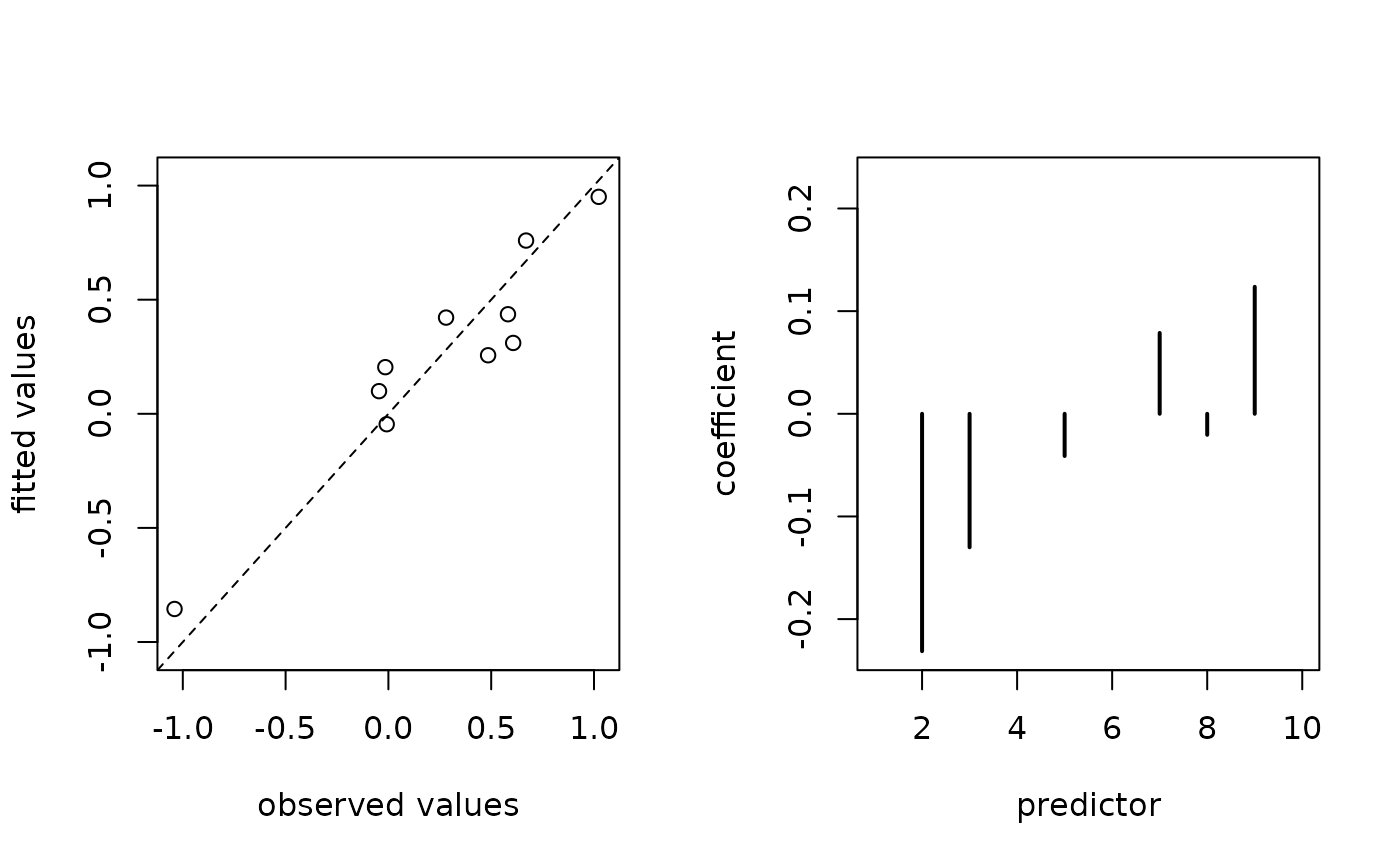
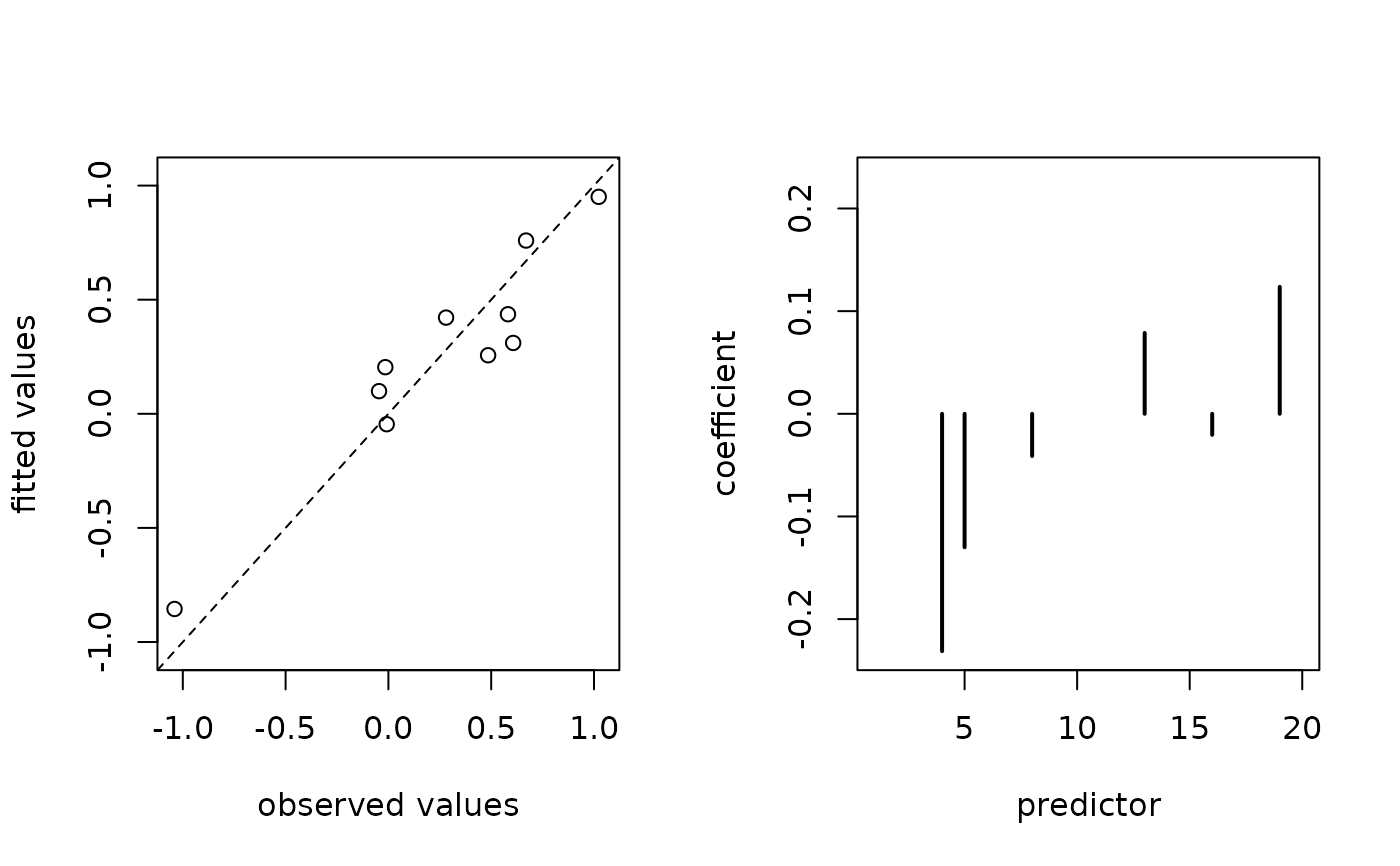
Deploying to gh-pages from @ rauschenberger/corila@f60b0ffc4063b2499f6fa0591c18770eb3169e38 🚀

diff --git a/reference/lupi_data.html b/reference/lupi_data.html
@@ -1,0 +1,106 @@
+<!DOCTYPE html>
+<!-- Generated by pkgdown: do not edit by hand --><html lang="en-GB"><head><meta http-equiv="Content-Type" content="text/html; charset=UTF-8"><meta charset="utf-8"><meta http-equiv="X-UA-Compatible" content="IE=edge"><meta name="viewport" content="width=device-width, initial-scale=1, shrink-to-fit=no"><title>Example data — lupi_data • corila</title><!-- mathjax math --><script src="https://cdn.jsdelivr.net/npm/mathjax@3.2.2/es5/tex-mml-chtml.js" integrity="sha256-MASABpB4tYktI2Oitl4t+78w/lyA+D7b/s9GEP0JOGI=" crossorigin="anonymous"></script><script>
+  window.MathJax = {
+    chtml: {
+      fontURL: "https://cdn.jsdelivr.net/npm/mathjax@3.2.2/es5/output/chtml/fonts/woff-v2"
+    }
+  };
+</script><script src="../deps/jquery-3.6.0/jquery-3.6.0.min.js"></script><meta name="viewport" content="width=device-width, initial-scale=1, shrink-to-fit=no"><link href="../deps/bootstrap-5.3.8/bootstrap.min.css" rel="stylesheet"><script src="../deps/bootstrap-5.3.8/bootstrap.bundle.min.js"></script><link href="../deps/font-awesome-6.5.2/css/all.min.css" rel="stylesheet"><link href="../deps/font-awesome-6.5.2/css/v4-shims.min.css" rel="stylesheet"><script src="../deps/headroom-0.11.0/headroom.min.js"></script><script src="../deps/headroom-0.11.0/jQuery.headroom.min.js"></script><script src="../deps/bootstrap-toc-1.0.1/bootstrap-toc.min.js"></script><script src="../deps/clipboard.js-2.0.11/clipboard.min.js"></script><script src="../deps/search-1.0.0/autocomplete.jquery.min.js"></script><script src="../deps/search-1.0.0/fuse.min.js"></script><script src="../deps/search-1.0.0/mark.min.js"></script><!-- pkgdown --><script src="../pkgdown.js"></script><meta property="og:title" content="Example data — lupi_data"><meta name="description" content="This is example data for modelling a response based on
+grouped and correlated primary and auxiliary predictors."><meta property="og:description" content="This is example data for modelling a response based on
+grouped and correlated primary and auxiliary predictors."></head><body>
+    <a href="#main" class="visually-hidden-focusable">Skip to contents</a>
+
+
+    <nav class="navbar navbar-expand-lg fixed-top bg-primary" data-bs-theme="dark" aria-label="Site navigation"><div class="container">
+
+    <a class="navbar-brand me-2" href="../index.html">corila</a>
+
+    <small class="nav-text text-muted me-auto" data-bs-toggle="tooltip" data-bs-placement="bottom" title="">0.1.0</small>
+
+
+    <button class="navbar-toggler" type="button" data-bs-toggle="collapse" data-bs-target="#navbar" aria-controls="navbar" aria-expanded="false" aria-label="Toggle navigation">
+      <span class="navbar-toggler-icon"></span>
+    </button>
+
+    <div id="navbar" class="collapse navbar-collapse ms-3">
+      <ul class="navbar-nav me-auto"><li class="active nav-item"><a class="nav-link" href="../reference/index.html">functions</a></li>
+<li class="nav-item"><a class="nav-link" href="../articles/vignette.html">vignette</a></li>
+<li class="nav-item"><a class="nav-link" href="../news/index.html">news</a></li>
+      </ul><ul class="navbar-nav"><li class="nav-item"><form class="form-inline" role="search">
+ <input class="form-control" type="search" name="search-input" id="search-input" autocomplete="off" aria-label="Search site" placeholder="Search for" data-search-index="../search.json"></form></li>
+<li class="nav-item"><a class="external-link nav-link" href="https://github.com/rauschenberger/corila/" aria-label="GitHub"><span class="fa fab fa-github fa-lg"></span></a></li>
+      </ul></div>
+
+
+  </div>
+</nav><div class="container template-reference-topic">
+<div class="row">
+  <main id="main" class="col-md-9"><div class="page-header">
+
+      <h1>Example data</h1>
+      <small class="dont-index">Source: <a href="https://github.com/rauschenberger/corila/blob/main/R/data.R" class="external-link"><code>R/data.R</code></a></small>
+      <div class="d-none name"><code>lupi_data.Rd</code></div>
+    </div>
+
+    <div class="ref-description section level2">
+    <p>This is example data for modelling a response based on
+grouped and correlated primary and auxiliary predictors.</p>
+    </div>
+
+    <div class="section level2">
+    <h2 id="ref-usage">Usage<a class="anchor" aria-label="anchor" href="#ref-usage"></a></h2>
+    <div class="sourceCode"><pre class="sourceCode r"><code><span><span class="va">data</span></span></code></pre></div>
+    </div>
+
+    <div class="section level2">
+    <h2 id="format">Format<a class="anchor" aria-label="anchor" href="#format"></a></h2>
+    <p>The object <code>data</code> contains a list with multiple slots:</p><ul><li><p><code>x_train</code>:
+predictor matrix of the training observations
+(\(n_0\) rows, \(p\) columns)</p></li>
+<li><p><code>y_train</code>:
+response vector of the training observations
+(length \(n_0\))</p></li>
+<li><p><code>group</code>:
+integer vector indicating the group of the predictors
+(length \(p\))</p></li>
+<li><p><code>primary</code>:
+logical vector indicating
+primary (<code>TRUE</code>) and auxiliary (<code>FALSE</code>) predictors
+(length \(p\))</p></li>
+<li><p><code>beta</code>:
+numeric vector of the effects of the predictors on the response
+(length \(p\))</p></li>
+<li><p><code>x_test</code>:
+\(n_1 \times p\) predictor matrix for the test observations</p></li>
+<li><p><code>y_test</code>:
+response vector for the test observations of length \(n_1\)</p></li>
+</ul></div>
+    <div class="section level2">
+    <h2 id="details">Details<a class="anchor" aria-label="anchor" href="#details"></a></h2>
+    <p>Use the objects <code>x_train</code>, <code>y_train</code>, <code>group</code>, and <code>primary</code>
+for model training.
+Estimated coefficients can be compared with <code>beta</code>.
+Use the object <code>x_test</code> for model testing.
+Predicted values can be compared with <code>y_test</code>.</p>
+    </div>
+
+  </main><aside class="col-md-3"><nav id="toc" aria-label="Table of contents"><h2>On this page</h2>
+    </nav></aside></div>
+
+
+    <footer><div class="pkgdown-footer-left">
+  <p>Developed by Armin Rauschenberger.</p>
+</div>
+
+<div class="pkgdown-footer-right">
+  <p>Site built with <a href="https://pkgdown.r-lib.org/" class="external-link">pkgdown</a> 2.2.0.</p>
+</div>
+
+    </footer></div>
+
+
+
+
+
+  </body></html>
+

diff --git a/reference/index.html b/reference/index.html
@@ -157,6 +157,22 @@
         </dt>
         <dd>Make predictions</dd>
       </dl></div><div class="section level2">
+      <h2 id="example-dataset">Example dataset<a class="anchor" aria-label="anchor" href="#example-dataset"></a></h2>
+
+
+
+      <dl></dl></div><div class="section level2">
+
+
+
+
+      <dl><dt>
+
+          <code><a href="lupi_data.html">data</a></code>
+
+        </dt>
+        <dd>Example data</dd>
+      </dl></div><div class="section level2">
       <h2 id="internal-functions">Internal functions<a class="anchor" aria-label="anchor" href="#internal-functions"></a></h2>
 
 

diff --git a/reference/data.html b/reference/data.html
@@ -1,0 +1,8 @@
+<html>
+  <head>
+    <meta http-equiv="refresh" content="0;URL=https://rauschenberger.github.io/corila/reference/lupi_data.html" />
+    <meta name="robots" content="noindex">
+    <link rel="canonical" href="https://rauschenberger.github.io/corila/reference/lupi_data.html">
+  </head>
+</html>
+

diff --git a/reference/methods.html b/reference/methods.html
@@ -113,8 +113,10 @@ summarise the fitted model</p></li>
 <span class="r-wrn co"><span class="r-pr">#&gt;</span> <span class="warning">Warning: </span>Option grouped=FALSE enforced in cv.glmnet, since &lt; 3 observations per fold</span>
 <span class="r-in"><span></span></span>
 <span class="r-in"><span><span class="fu"><a href="https://rdrr.io/r/stats/coef.html" class="external-link">coef</a></span><span class="op">(</span><span class="va">object</span><span class="op">)</span></span></span>
-<span class="r-out co"><span class="r-pr">#&gt;</span>  [1]  0.10978670  0.00000000 -0.23122594 -0.13002684  0.00000000 -0.04111522</span>
-<span class="r-out co"><span class="r-pr">#&gt;</span>  [7]  0.00000000  0.07875981 -0.02046811  0.12369290  0.00000000</span>
+<span class="r-out co"><span class="r-pr">#&gt;</span>  [1]  0.10978670  0.00000000  0.00000000  0.00000000 -0.23122594 -0.13002684</span>
+<span class="r-out co"><span class="r-pr">#&gt;</span>  [7]  0.00000000  0.00000000 -0.04111522  0.00000000  0.00000000  0.00000000</span>
+<span class="r-out co"><span class="r-pr">#&gt;</span> [13]  0.00000000  0.07875981  0.00000000  0.00000000 -0.02046811  0.00000000</span>
+<span class="r-out co"><span class="r-pr">#&gt;</span> [19]  0.00000000  0.12369290  0.00000000</span>
 <span class="r-in"><span><span class="fu"><a href="https://rdrr.io/r/stats/predict.html" class="external-link">predict</a></span><span class="op">(</span><span class="va">object</span>, newx <span class="op">=</span> <span class="va">x</span><span class="op">)</span></span></span>
 <span class="r-out co"><span class="r-pr">#&gt;</span>  [1]  0.09926603  0.42161457  0.95068360  0.43627218  0.31049695 -0.04566780</span>
 <span class="r-out co"><span class="r-pr">#&gt;</span>  [7] -0.85527265  0.75918734  0.20435338  0.25650187</span>

diff --git a/reference/lupi_data.md b/reference/lupi_data.md
@@ -1,0 +1,40 @@
+# Example data
+
+This is example data for modelling a response based on grouped and
+correlated primary and auxiliary predictors.
+
+## Usage
+
+``` r
+data
+```
+
+## Format
+
+The object `data` contains a list with multiple slots:
+
+- `x_train`: predictor matrix of the training observations (\\n_0\\
+  rows, \\p\\ columns)
+
+- `y_train`: response vector of the training observations (length
+  \\n_0\\)
+
+- `group`: integer vector indicating the group of the predictors (length
+  \\p\\)
+
+- `primary`: logical vector indicating primary (`TRUE`) and auxiliary
+  (`FALSE`) predictors (length \\p\\)
+
+- `beta`: numeric vector of the effects of the predictors on the
+  response (length \\p\\)
+
+- `x_test`: \\n_1 \times p\\ predictor matrix for the test observations
+
+- `y_test`: response vector for the test observations of length \\n_1\\
+
+## Details
+
+Use the objects `x_train`, `y_train`, `group`, and `primary` for model
+training. Estimated coefficients can be compared with `beta`. Use the
+object `x_test` for model testing. Predicted values can be compared with
+`y_test`.

diff --git a/reference/methods.md b/reference/methods.md
@@ -48,8 +48,10 @@ object <- cv.corila(x = x, y = y, group = group, primary = primary)
 #> Warning: Option grouped=FALSE enforced in cv.glmnet, since < 3 observations per fold
 
 coef(object)
-#>  [1]  0.10978670  0.00000000 -0.23122594 -0.13002684  0.00000000 -0.04111522
-#>  [7]  0.00000000  0.07875981 -0.02046811  0.12369290  0.00000000
+#>  [1]  0.10978670  0.00000000  0.00000000  0.00000000 -0.23122594 -0.13002684
+#>  [7]  0.00000000  0.00000000 -0.04111522  0.00000000  0.00000000  0.00000000
+#> [13]  0.00000000  0.07875981  0.00000000  0.00000000 -0.02046811  0.00000000
+#> [19]  0.00000000  0.12369290  0.00000000
 predict(object, newx = x)
 #>  [1]  0.09926603  0.42161457  0.95068360  0.43627218  0.31049695 -0.04566780
 #>  [7] -0.85527265  0.75918734  0.20435338  0.25650187

diff --git a/reference/index.md b/reference/index.md
@@ -46,6 +46,11 @@
 - [`predict(`*`<multiridge>`*`)`](https://rauschenberger.github.io/corila/reference/predict.multiridge.md)
   : Make predictions
 
+## Example dataset
+
+- [`data`](https://rauschenberger.github.io/corila/reference/lupi_data.md)
+  : Example data
+
 ## Internal functions
 
 - [`calc_sign_prec()`](https://rauschenberger.github.io/corila/reference/calc_sign_prec.md)